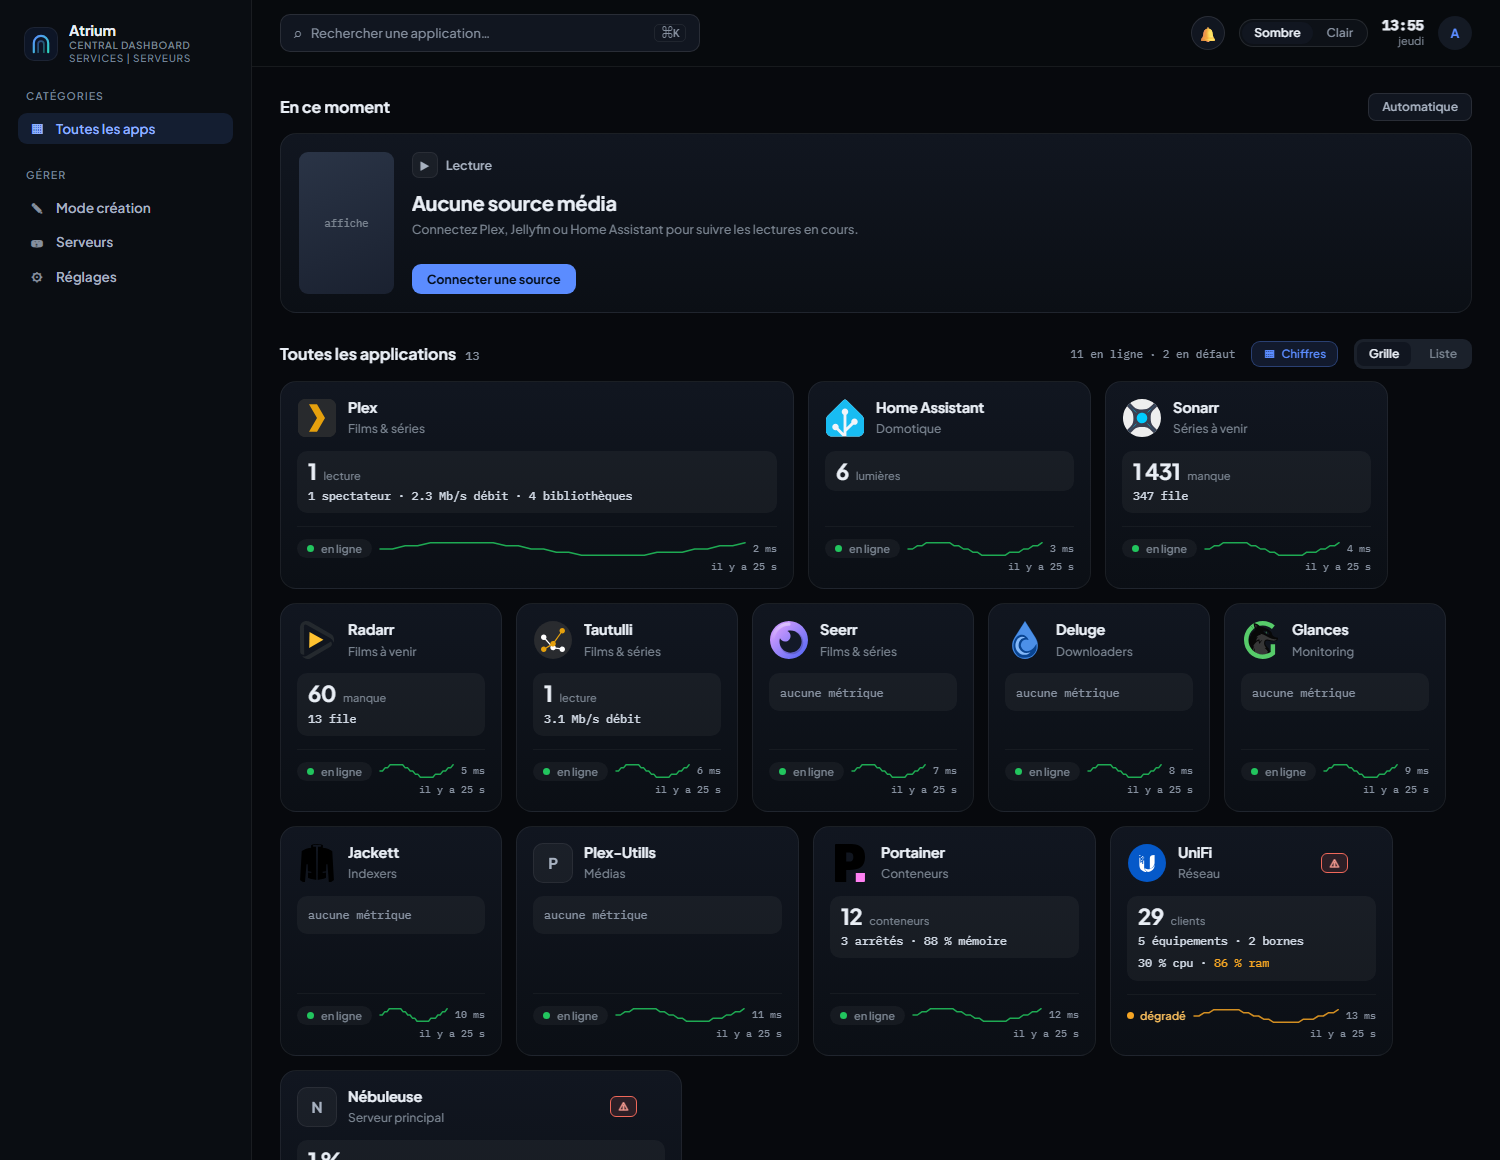
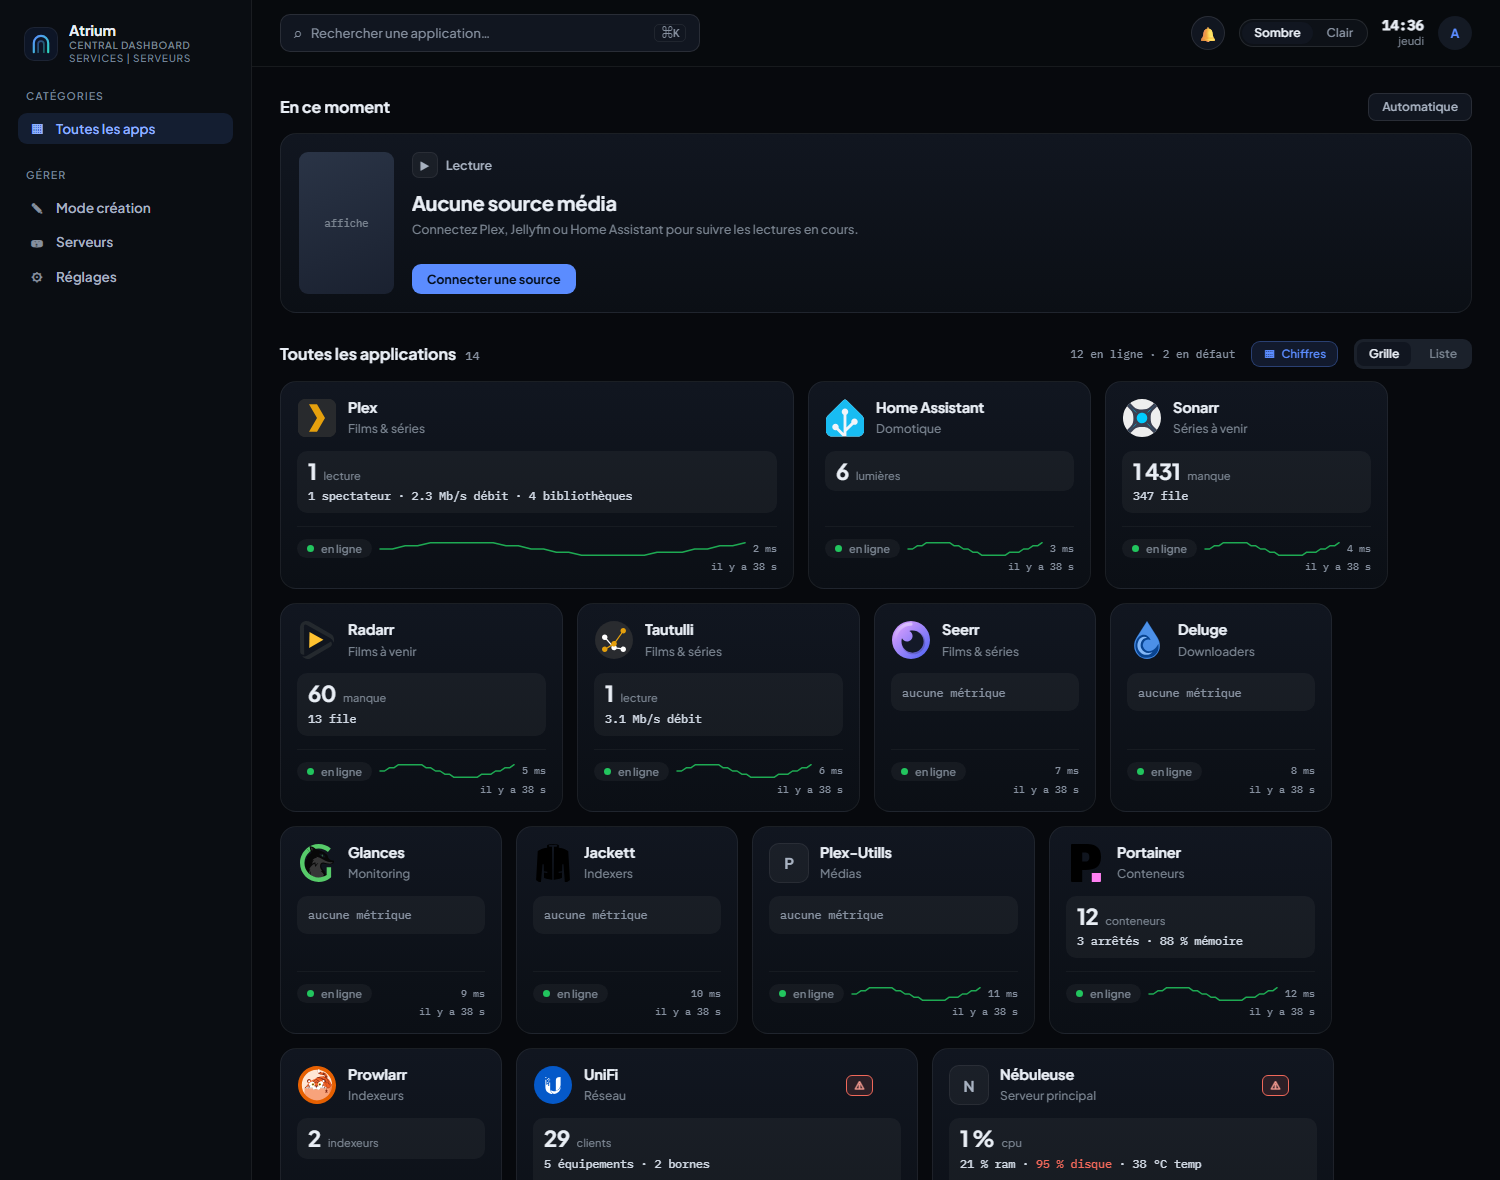
Trois formats de tuile, déduits du contenu
C'était volontaire mais implicite : la largeur suivait la place que prenait le
texte, et rien dans le code ne nommait le résultat. Les trois formats existent
maintenant explicitement, et le nombre de mesures compte autant que leur
largeur.

  petite    aucune ou une seule mesure — Prowlarr, Jackett, Glances
  standard  deux ou trois — Sonarr, Radarr, Portainer
  large     quatre et plus — UniFi, Unraid, Plex (deux crans, pour que Plex
            ne réserve pas la place d'Unraid)

Une ligne longue ou un nom long font monter d'un cran : « Home Assistant » ne
tient pas dans une petite tuile, même avec une seule mesure.

Le format petit perd sa courbe. À deux cent vingt pixels elle ne montrait rien,
et l'état avec le temps de réponse valent mieux que soixante pixels de tracé.
Sa fonction ne se perd pas : le temps de réponse porte désormais la même
explication au survol et le même clic vers l'historique, sur toutes les tuiles.

Aucun format n'est attaché à un service : tout se déduit du contenu, donc une
intégration qui gagne une mesure change de format toute seule.

diff --git a/app/static/index.html b/app/static/index.html
@@ -468,15 +468,28 @@ a.card:hover{box-shadow:var(--sh-hover);border-color:var(--accent-border);transf
 /* Assez large pour que « aucune métrique remontée » tienne d'un tenant :
    une mention coupée en deux se lit comme un défaut. */
 .grid:not(.list) > *{flex:1 1 248px;min-width:0;max-width:310px}
-/* Chaque tuile prend la largeur de ce qu'elle a à dire. Un service qui remonte
-   quatre mesures a besoin de la ligne entière ; un service muet n'a besoin de
-   rien, et lui donner la même place étirait son vide. Quatre tailles plutôt
-   qu'une mesure au pixel : la rangée reste une rangée, pas un escalier. */
+/* Trois formats, et rien à régler : la tuile prend la largeur de ce qu'elle a
+   à dire, et son format en découle.
+
+     petite    (tuile-s)         un service simple — « 2 indexeurs », un nom
+                                 court. Pas de courbe : à cette largeur elle ne
+                                 montrerait rien, l'état et le temps de réponse
+                                 passent avant.
+     standard  (tuile-m)         une ligne de mesures, courbe comprise.
+     large     (tuile-l, -xl)    plusieurs lignes, ou une ligne longue. Deux
+                                 crans plutôt qu'un, pour que Plex ne réserve
+                                 pas la place d'Unraid.
+
+   Le format n'est jamais choisi par service : il se déduit du contenu, donc il
+   suit tout seul quand une intégration gagne ou perd une mesure. */
 /* La marge de croissance reste courte. Une rangée incomplète — la dernière —
    se partage tout l'espace qui reste : à deux tuiles, chacune doublait et la
    taille ne disait plus rien du contenu. Huit pour cent suffisent à ce que les
    rangées pleines finissent au bord sans que la dernière enfle. */
 .grid:not(.list) > .tuile-s{flex:1 1 206px;max-width:222px}
+/* Format petit : la courbe cède la place. Sa fonction ne se perd pas pour
+   autant — le temps de réponse porte la même explication et le même clic. */
+.grid:not(.list) > .tuile-s .spark{display:none}
 .grid:not(.list) > .tuile-m{flex:1 1 262px;max-width:283px}
 .grid:not(.list) > .tuile-l{flex:1 1 372px;max-width:402px}
 .grid:not(.list) > .tuile-xl{flex:1 1 476px;max-width:514px}
@@ -5646,6 +5659,11 @@ function appCard(app, index) {
     const lat = a.querySelector('.lat');
     lat.textContent = etat.latence_ms + ' ms';
     lat.title = t('app.moy', { n: etat.latence_moy });
+    /* Le temps de réponse mène à l'historique, comme la courbe : sur une tuile
+       au format petit, la courbe est masquée et il reste le seul chemin. */
+    lat.dataset.act = 'histo';
+    lat.setAttribute('role', 'button');
+    lat.tabIndex = 0;
   }
   /* l'activité n'a de sens que si l'état est montré : sans pastille, une
      courbe seule ne se rattache à rien */
@@ -5805,19 +5823,29 @@ function appCard(app, index) {
     }
   }
 
-  /* La largeur suit ce que la tuile a à écrire, et deux choses peuvent se faire
-     couper : la ligne de mesures — en chasse fixe, donc sa longueur en
-     caractères donne sa largeur — et le nom du service, qui partage sa ligne
-     avec le logo et les actions. On prend la plus exigeante des deux.
+  /* Le format de la tuile suit ce que le service a à dire, et cela se mesure de
+     deux façons qui ne disent pas la même chose.
 
-     Puis on classe, plutôt que de poser la largeur au pixel : quatre tailles se
-     rangent encore en rangées, une largeur par tuile ferait un escalier. */
-  const ligne = texte;
-  const besoin = Math.max(54 + Math.ceil(ligne.length * 6.9)
+     Combien de mesures d'abord : un service qui en remonte cinq est un service
+     dont on attend un tableau de bord, même si chacune tient en huit
+     caractères. Une seule mesure, ou aucune, se contente du format petit.
+
+     La place qu'elles prennent ensuite : une ligne longue ou un nom long font
+     monter d'un cran, sans quoi le texte se ferait couper. La ligne est en
+     chasse fixe, donc sa longueur en caractères donne sa largeur ; le nom, lui,
+     partage sa ligne avec le logo et les actions.
+
+     On classe plutôt que de poser la largeur au pixel : quatre crans se rangent
+     encore en rangées, une largeur par tuile ferait un escalier. */
+  const combien = chiffres ? chiffres.length : 0;
+  const besoin = Math.max(54 + Math.ceil(texte.length * 6.9)
                              + (a.querySelector('.mes-cog') ? 28 : 0),
                           126 + Math.ceil(app.nom.length * 7.4));
-  a.classList.add(besoin <= 206 ? 'tuile-s' : besoin <= 262 ? 'tuile-m'
-    : besoin <= 372 ? 'tuile-l' : 'tuile-xl');
+  let cran = combien <= 1 ? 0 : combien <= 3 ? 1 : 2;
+  if (besoin > 372) cran = 3;
+  else if (besoin > 262) cran = Math.max(cran, 2);
+  else if (besoin > 206) cran = Math.max(cran, 1);
+  a.classList.add(['tuile-s', 'tuile-m', 'tuile-l', 'tuile-xl'][cran]);
 
 
   if (app.url) { a.href = app.url; a.target = '_blank'; a.rel = 'noopener'; }
